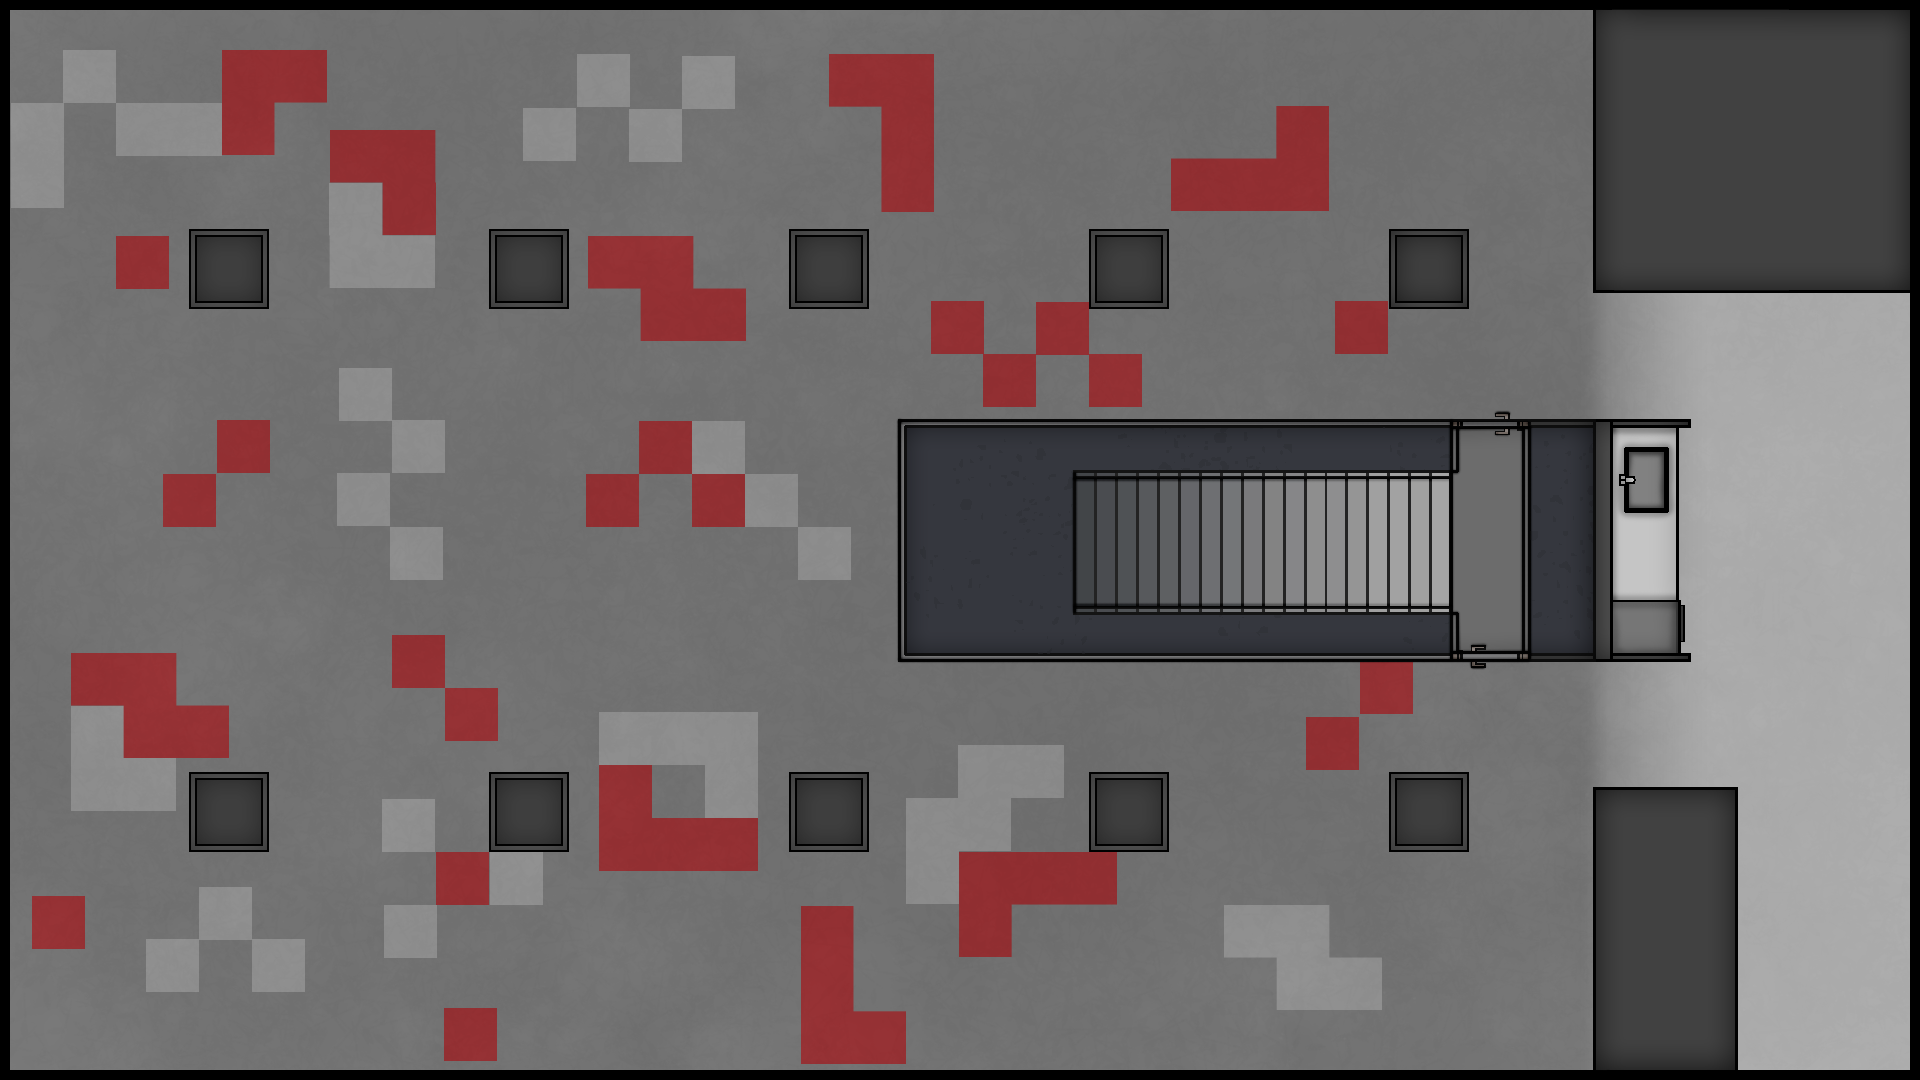
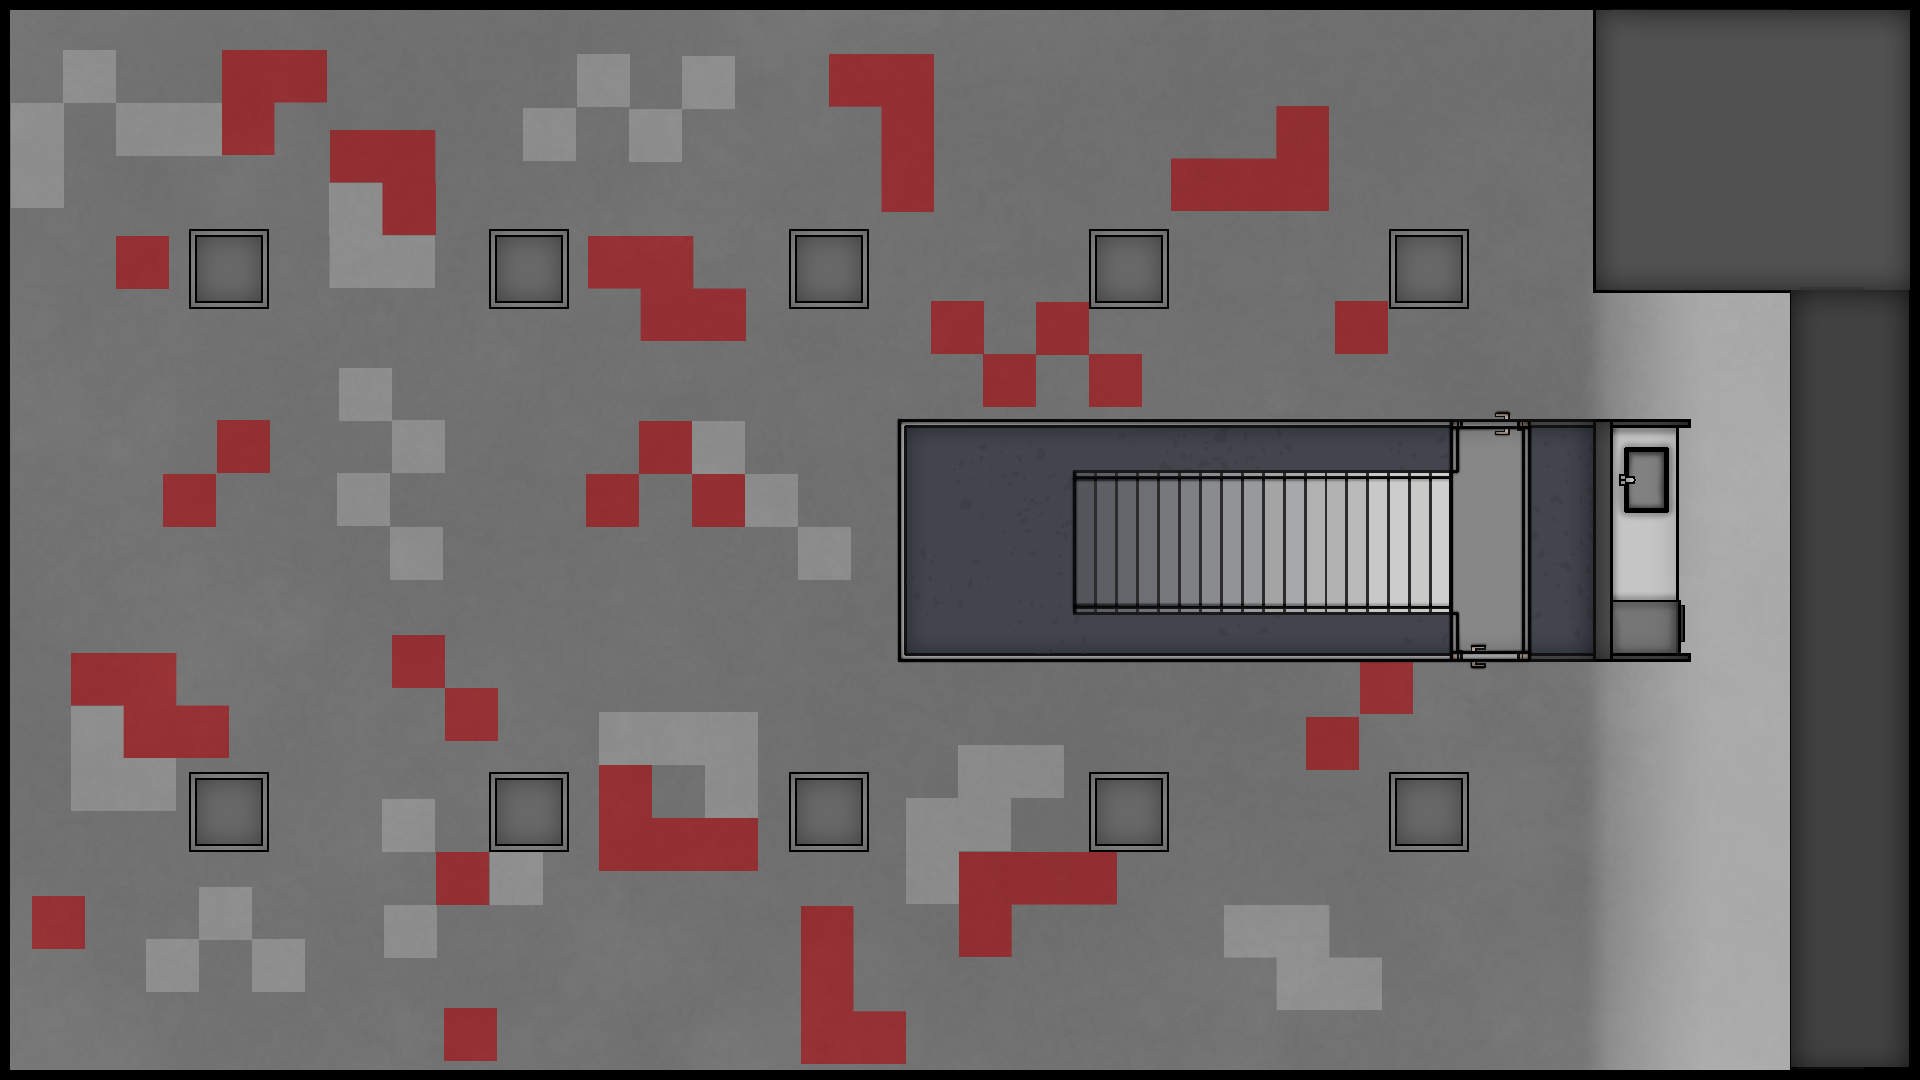
Final push before presentation

diff --git a/scripts/Level.py b/scripts/Level.py
@@ -71,6 +71,10 @@ class Level:
                 self.collidableSprites.add(table)
                 table = DestructibleObject("Table02", (x - 150, y), 70, 9, True, True)
                 self.collidableSprites.add(table)
+        table = DestructibleObject("Table02", (1700, 440), 70, 9, True)
+        self.collidableSprites.add(table)
+        table = DestructibleObject("Table02", (1700, 540), 70, 9, True, True)
+        self.collidableSprites.add(table)
 
         #######################
         ### COMPUTER ADD ONS #########
@@ -82,9 +86,10 @@ class Level:
                 self.collidableSprites.add(keyboard)
                 keyboard = DestructibleObject("Keyboard02", (x + 10, y + 173), 100, 1, True)
                 self.collidableSprites.add(keyboard)
-                mouse = DestructibleObject("mouse01", (x + 50, y + 45), 60, 1, False)
+                num = random.randint(1,2)
+                mouse = DestructibleObject("mouse0" + str(num), (x + 50, y + 45), 60, 1, False)
                 self.collidableSprites.add(mouse)
-                mouse = DestructibleObject("mouse01", (x + 50, y + 183), 60, 1, False, True, True)
+                mouse = DestructibleObject("mouse0" + str(num), (x + 50, y + 183), 60, 1, False, True, True)
                 self.collidableSprites.add(mouse)
                 monitor = DestructibleObject("Monitor", (x, y + 198), 200, 2, True)
                 self.collidableSprites.add(monitor)
@@ -102,9 +107,10 @@ class Level:
                 self.collidableSprites.add(keyboard)
                 keyboard = DestructibleObject("Keyboard02R", (x - 125, y+5), 100, 1, True)
                 self.collidableSprites.add(keyboard)
-                mouse = DestructibleObject("mouse02R", (x - 140, y+50), 60, 1, False)
+                num = random.randint(1,2)
+                mouse = DestructibleObject("mouse0" + str(num) + "R", (x - 140, y+50), 60, 1, False)
                 self.collidableSprites.add(mouse)
-                mouse = DestructibleObject("mouse02R", (x + 15, y+50), 60, 1, False, True, True)
+                mouse = DestructibleObject("mouse0" + str(num) + "R", (x + 15, y+50), 60, 1, False, True, True)
                 self.collidableSprites.add(mouse)
 
         for y in range(860, 962, 101):
@@ -121,9 +127,10 @@ class Level:
                 self.collidableSprites.add(keyboard)
                 keyboard = DestructibleObject("Keyboard02R", (x - 125, y+5), 100, 1, True)
                 self.collidableSprites.add(keyboard)
-                mouse = DestructibleObject("mouse02R", (x - 140, y+50), 60, 1, False)
+                num = random.randint(1,2)
+                mouse = DestructibleObject("mouse0" + str(num) + "R", (x - 140, y+50), 60, 1, False)
                 self.collidableSprites.add(mouse)
-                mouse = DestructibleObject("mouse02R", (x + 15, y+50), 60, 1, False, True, True)
+                mouse = DestructibleObject("mouse0" + str(num) + "R", (x + 15, y+50), 60, 1, False, True, True)
                 self.collidableSprites.add(mouse)
         
     
@@ -132,29 +139,56 @@ class Level:
         for x in range(1264, 1566, 101):
             for y in range(0, 851, 850):
                 num = random.randint(1, 3)
-                chair = DestructibleObject("Chair0" + str(num), (x, y + 127), 100, 4, True)
+                isTall = ""
+                if random.randint(1,2) == 1:
+                    isTall = "Tall"
+                chair = DestructibleObject(isTall + "Chair0" + str(num), (x, y + 127), 100, 4, True)
                 self.collidableSprites.add(chair)
-                chair = DestructibleObject("Chair0" + str(num), (x, y + 80), 100, 4, True, False, True)
+                isTall = ""
+                if random.randint(1,2) == 1:
+                    isTall = "Tall"
+                chair = DestructibleObject(isTall + "Chair0" + str(num), (x, y + 80), 100, 4, True, False, True)
                 self.collidableSprites.add(chair)
 
         for y in range(8, 120, 101):
             for x in range(440, 1041, 300):
                 num = random.randint(1, 3)
-                chair = DestructibleObject("Chair0" + str(num) + "R", (x - 40, y), 100, 4, True)
+                isTall = ""
+                if random.randint(1,2) == 1:
+                    isTall = "Tall"
+                chair = DestructibleObject(isTall + "Chair0" + str(num) + "R", (x - 40, y + 25), 100, 4, True)
                 self.collidableSprites.add(chair)
-                chair = DestructibleObject("Chair0" + str(num) + "R", (x - 100, y), 100, 4, True, True)
+                isTall = ""
+                if random.randint(1,2) == 1:
+                    isTall = "Tall"
+                chair = DestructibleObject(isTall + "Chair0" + str(num) + "R", (x - 100, y + 25), 100, 4, True, True)
                 self.collidableSprites.add(chair)
 
         for y in range(860, 962, 101):
             for x in range(440, 1041, 300):
                 num = random.randint(1, 3)
-                chair = DestructibleObject("Chair0" + str(num) + "R", (x - 40, y), 5, 4, True)
+                isTall = ""
+                if random.randint(1,2) == 1:
+                    isTall = "Tall"
+                chair = DestructibleObject(isTall + "Chair0" + str(num) + "R", (x - 40, y + 25), 75, 4, True)
                 self.collidableSprites.add(chair)
-                chair = DestructibleObject("Chair0" + str(num) + "R", (x - 100, y), 5, 4, True, True)
+                isTall = ""
+                if random.randint(1,2) == 1:
+                    isTall = "Tall"
+                chair = DestructibleObject(isTall + "Chair0" + str(num) + "R", (x - 100, y + 25), 75, 4, True, True)
+                self.collidableSprites.add(chair)
+
+        for x in range(77, 210, 44):
+            for y in range(419, 628, 52):
+                num = random.randint(1, 3)
+                isTall = ""
+                if random.randint(1,2) == 1:
+                    isTall = "Tall"
+                chair = DestructibleObject(isTall + "Chair0" + str(num) + "R", (x, y), 75, 4, True, True)
                 self.collidableSprites.add(chair)
 
         #### TRASH ############
-        for x in range(206, 1107, 300):
+        for x in range(206, 1407, 300):
             for y in range(312, 727, 414):
                 trash = DestructibleObject("Trash", (x,y), 20, 4, True)
                 self.collidableSprites.add(trash)
@@ -171,6 +205,9 @@ class Level:
             tv  = DestructibleObject("TV", (x, 10), 500, 6, True)
             self.collidableSprites.add(tv)
             tv  = DestructibleObject("TV", (x, 1070), 500, 6, True, False, True)
+            self.collidableSprites.add(tv)
+        for y in range(426, 577, 150):
+            tv  = DestructibleObject("TVR", (10, y), 500, 6, True)
             self.collidableSprites.add(tv)
 
         #### BOOKS & PAPERS ####################
@@ -194,14 +231,73 @@ class Level:
                 bottle = DestructibleObject("Bottle0" + str(num), (x, y), 10, 1, True)
                 self.collidableSprites.add(bottle)
 
+        for x in range(1706, 1737, 15):
+            for y in range(442, 619, 35):
+                num = random.randint(1,3)
+                bottle = DestructibleObject("Bottle0" + str(num), (x, y), 10, 1, True)
+                self.collidableSprites.add(bottle)
+                watercup = DestructibleObject("WaterCup", (x, y + 15), 5, 1, True)
+                self.collidableSprites.add(watercup)
+
         #@### VIDEO GAME CASE #######
         for x in range(250, 676, 423): 
             for y in range(415, 700, 150):
                 game = DestructibleObject("GameCabinet01", (x,y), 300, 6, True, True)
                 self.collidableSprites.add(game)
+
+        for x in range(1595, 1811, 72):
+            for y in range(876, 1016, 70):
+                game = DestructibleObject("GameCabinet01", (x - 25,y + 25), 300, 6, True, True)
+                self.collidableSprites.add(game)
+
+        for x in range(68, 284, 72):
+            for y in range(40, 180, 70):
+                game = DestructibleObject("GameCabinet01", (x - 25,y + 25), 300, 6, True, True)
+                self.collidableSprites.add(game)
+
+        for x in range(68, 284, 72):
+            for y in range(880, 1020, 70):
+                game = DestructibleObject("GameCabinet01", (x - 25,y + 25), 300, 6, True, True)
+                self.collidableSprites.add(game)
+
+        #### HEADPHONES #####        
+        for x in range(304, 905, 300):
+            for y in range(81, 1036, 954):
+                num  = random.randint(1, 9)
+                headphones = DestructibleObject("Headphone0" + str(num), (x,y), 100, 1, False)
+                self.collidableSprites.add(headphones)
+        
+        #### WACOM TABLETS #########
+        for x in range(455, 1056, 300):
+            for y in range(934, 1035, 100):
+                wacom = DestructibleObject("WacomTablet", (x,y), 350, 2, True)
+                self.collidableSprites.add(wacom)
+                pen = DestructibleObject("WacomPen", (x - 10,y), 70, 1, True)
+                self.collidableSprites.add(pen)
+
+        ### MISC ###################
+        watercup = DestructibleObject("WaterCup", (1307, 1033), 5, 1, True)
+        self.collidableSprites.add(watercup)
+        watercup = DestructibleObject("WaterCup", (1408, 892), 5, 1, True)
+        self.collidableSprites.add(watercup)
+        num  = random.randint(1, 9)
+        headphones = DestructibleObject("Headphone0" + str(num), (1405,1033), 100, 1, False)
+        self.collidableSprites.add(headphones)
+        wacom = DestructibleObject("WacomTablet", (1508,1033), 350, 2, True)
+        self.collidableSprites.add(wacom)
+        pen = DestructibleObject("WacomPen", (1498,1033), 70, 1, True)
+        self.collidableSprites.add(pen)
+        for x in range(1307, 1508, 200):
+            wacom = DestructibleObject("WacomTablet", (x,179), 350, 2, True)
+            self.collidableSprites.add(wacom)
+            pen = DestructibleObject("WacomPen", (x - 10,179), 70, 1, True)
+            self.collidableSprites.add(pen)
+        watercup = DestructibleObject("WaterCup", (1408, 44), 5, 1, True)
+        self.collidableSprites.add(watercup)
+        watercup = DestructibleObject("WaterCup", (1408, 186), 5, 1, True)
+        self.collidableSprites.add(watercup)
         ####################################################################################
         
-
         ### WALLS ##########################################################################
         self.walls = pygame.sprite.Group()
         for x in range(189, 1390, 300):
@@ -212,9 +308,9 @@ class Level:
 
         wall = Wall((898, 413), (785, 255))
         self.walls.add(wall)
-        wall = Wall((1593, 787), (145, 293))
-        self.walls.add(wall)
         wall = Wall((1593, 0), (320, 294))
+        self.walls.add(wall)
+        wall = Wall((1790, 287), (120, 788))
         self.walls.add(wall)
         ###################################################################################
         self.map = pygame.image.load("../images/background.png").convert()
@@ -302,6 +398,7 @@ class Level:
                 player.rect.right = collidedWalls[0].rect.left
             else:
                 player.rect.left = collidedWalls[0].rect.right
+            player.direction.x = -(player.direction.x)
         
         player.rect.y += self.cameraOffsetY
         collidedWalls =  pygame.sprite.spritecollide(player, self.walls, False)
@@ -310,6 +407,7 @@ class Level:
                 player.rect.bottom = collidedWalls[0].rect.top
             else:
                 player.rect.top = collidedWalls[0].rect.bottom
+            player.direction.y = -(player.direction.y)
         self.lateralSpeed *= .95
         mouse = pygame.mouse.get_pressed()
 

diff --git a/scripts/Main.py b/scripts/Main.py
@@ -73,7 +73,7 @@ while playing:
     pygame.display.flip()
     if level.fuelLevel <= 0:
         playing = False
-    print(len(fire.particles))  #it stays 24 so might not be the problem of particles
+    #print(len(fire.particles))  #it stays 24 so might not be the problem of particles
     #print("fire is"sys.getrefcount(fire))
 while not playing:
     checkSurface = pygame.image.load("../ArtResource/Check.jpg").convert_alpha()

diff --git a/scripts/Player.py b/scripts/Player.py
@@ -15,7 +15,7 @@ class Player:
         self.rotationList = [(0,-1),(sqrt2,-sqrt2),(1,0),(sqrt2,sqrt2),(0,1),(-sqrt2,sqrt2),(-1,0),(-sqrt2,-sqrt2)]
         self.mouse_v = pygame.math.Vector2(pygame.mouse.get_pos())
         self.imageRotated = 0
-        self.rect.center = (1920 / 12, 1080 / 2)
+        self.rect.center = (1920 / 4, 1080 / 2)
 
         self.fuelLevel = 3000
         self.MoneyDamage = 0
